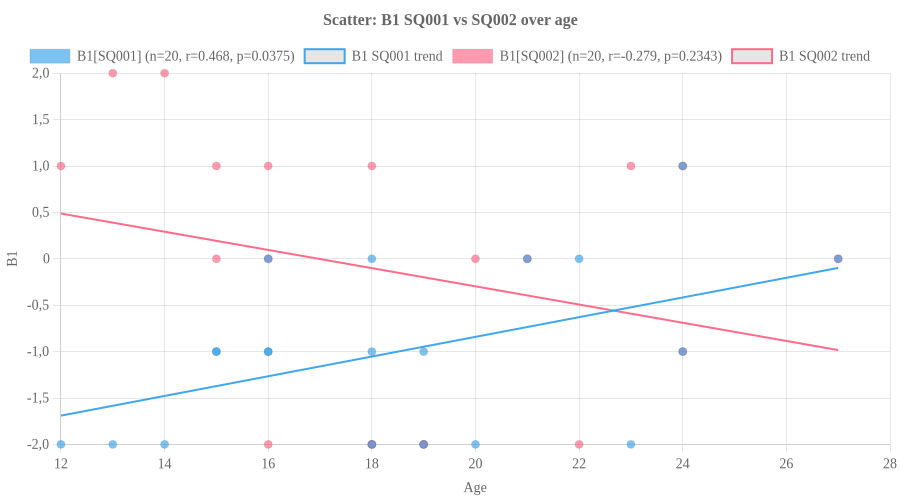
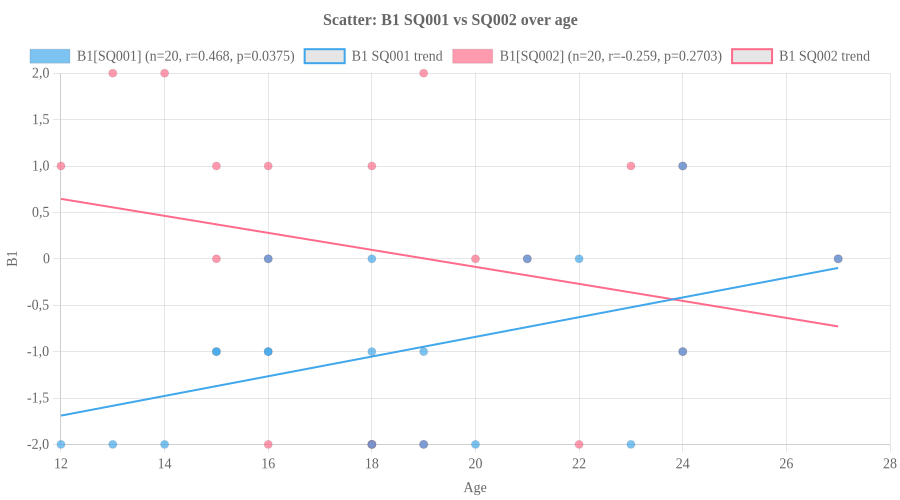
fix calculation issues

diff --git a/src/tools/reliabilityMetrics.ts b/src/tools/reliabilityMetrics.ts
@@ -29,11 +29,123 @@ type CsvRow = Record<string, string>;
 const DIMENSIONS = ['wording', 'perspective', 'context', 'glamorization', 'harmAcknowledgement'] as const;
 type Dimension = (typeof DIMENSIONS)[number];
 
+// Wertebereiche der Dimensionen (für Dokumentation und Normalisierung)
+const DIMENSION_RANGES: Record<Dimension, { min: number; max: number }> = {
+  wording: { min: -2, max: 2 },
+  perspective: { min: -2, max: 2 },
+  context: { min: -2, max: 2 },
+  glamorization: { min: -2, max: 2 },
+  harmAcknowledgement: { min: -2, max: 0 }, // Nur negative Werte sinnvoll
+};
+
 function stddevSample(xs: number[]): number | null {
   if (xs.length < 2) return null;
   const v = varianceSample(xs);
   if (v === null) return null;
   return Math.sqrt(v);
+}
+
+/**
+ * Pearson correlation coefficient
+ */
+function pearsonCorrelation(xs: number[], ys: number[]): number | null {
+  if (xs.length !== ys.length || xs.length < 2) return null;
+  const n = xs.length;
+  const mx = mean(xs);
+  const my = mean(ys);
+  if (mx === null || my === null) return null;
+
+  let num = 0;
+  let dx2 = 0;
+  let dy2 = 0;
+  for (let i = 0; i < n; i++) {
+    const dx = xs[i] - mx;
+    const dy = ys[i] - my;
+    num += dx * dy;
+    dx2 += dx * dx;
+    dy2 += dy * dy;
+  }
+  const denom = Math.sqrt(dx2 * dy2);
+  if (denom === 0) return null;
+  return num / denom;
+}
+
+/**
+ * Z-standardize values within each column (item)
+ */
+function zStandardizeMatrix(matrix: number[][]): number[][] {
+  const n = matrix.length;
+  const k = matrix[0]?.length ?? 0;
+  if (n < 2 || k < 1) return matrix;
+
+  const result: number[][] = matrix.map(row => [...row]);
+
+  for (let j = 0; j < k; j++) {
+    const col: number[] = [];
+    for (let i = 0; i < n; i++) col.push(matrix[i][j]);
+    const m = mean(col);
+    const sd = stddevSample(col);
+    if (m === null || sd === null || sd === 0) continue;
+    for (let i = 0; i < n; i++) {
+      result[i][j] = (matrix[i][j] - m) / sd;
+    }
+  }
+  return result;
+}
+
+/**
+ * Standardized Cronbach's alpha
+ * Uses correlation matrix instead of covariance matrix.
+ * Under tau-equivalence, standardized alpha ≈ raw alpha.
+ */
+function cronbachAlphaStandardized(matrix: number[][]): { alpha: number | null; avgInterItemCorr: number | null; interItemCorrVariance: number | null; itemTotalCorrs: number[] } {
+  const n = matrix.length;
+  const k = matrix[0]?.length ?? 0;
+  const result = { alpha: null as number | null, avgInterItemCorr: null as number | null, interItemCorrVariance: null as number | null, itemTotalCorrs: [] as number[] };
+  
+  if (n < 2 || k < 2) return result;
+
+  // Extract columns (items)
+  const cols: number[][] = [];
+  for (let j = 0; j < k; j++) {
+    const col: number[] = [];
+    for (let i = 0; i < n; i++) col.push(matrix[i][j]);
+    cols.push(col);
+  }
+
+  // Compute inter-item correlation matrix (lower triangle)
+  const interItemCorrs: number[] = [];
+  for (let i = 0; i < k; i++) {
+    for (let j = i + 1; j < k; j++) {
+      const r = pearsonCorrelation(cols[i], cols[j]);
+      if (r !== null) interItemCorrs.push(r);
+    }
+  }
+
+  if (interItemCorrs.length === 0) return result;
+
+  // Average inter-item correlation
+  const avgR = mean(interItemCorrs);
+  result.avgInterItemCorr = avgR;
+
+  // Variance of inter-item correlations (tau-equivalence check)
+  result.interItemCorrVariance = varianceSample(interItemCorrs);
+
+  // Standardized alpha formula: k * avgR / (1 + (k-1) * avgR)
+  if (avgR !== null) {
+    result.alpha = (k * avgR) / (1 + (k - 1) * avgR);
+  }
+
+  // Item-total correlations (corrected: correlate item with sum of other items)
+  const totals = matrix.map(row => row.reduce((a, b) => a + b, 0));
+  for (let j = 0; j < k; j++) {
+    // Corrected item-total: total minus this item
+    const correctedTotals = matrix.map((row, i) => totals[i] - row[j]);
+    const r = pearsonCorrelation(cols[j], correctedTotals);
+    result.itemTotalCorrs.push(r ?? 0);
+  }
+
+  return result;
 }
 
 function printHelp() {
@@ -54,8 +166,13 @@ Diagnostics:
   --topDisagreements <N>         How many disagreement units to print (default: 10)
 
 What it computes:
-  - Cronbach's alpha: internal consistency across the 5 rating dimensions.
+  - Cronbach's alpha (raw): internal consistency across the 5 rating dimensions.
     Units are aggregated as the mean per unit (across raters), then alpha is computed across dimensions.
+  - Cronbach's alpha (standardized): uses correlation matrix; equals raw alpha under tau-equivalence.
+  - Tau-Äquivalenz Diagnostik:
+      * Differenz raw vs standardized alpha (>0.05 deutet auf Verletzung)
+      * Varianz der Inter-Item-Korrelationen (sollte niedrig sein)
+      * Item-Total-Korrelationen (sollten ähnlich sein)
   - Krippendorff's alpha (interval distance): inter-rater reliability per dimension.
 
 Assumptions about the CSV:
@@ -396,6 +513,7 @@ async function main() {
   }
 
   const alphaCronbach = cronbachAlpha(matrix);
+  const tauEquiv = cronbachAlphaStandardized(matrix);
 
   // Output
   console.log('=== Reliability metrics ===');
@@ -404,8 +522,46 @@ async function main() {
   console.log(`Rater key for Krippendorff: ${raterKey} (ratingId|model)`);
   console.log('');
 
+  console.log('Hinweis zu Wertebereichen:');
+  DIMENSIONS.forEach(d => {
+    const range = DIMENSION_RANGES[d];
+    console.log(`  ${d}: [${range.min}, ${range.max}]`);
+  });
+  console.log('  → harmAcknowledgement hat kleineren Wertebereich (nur -2 bis 0)');
+  console.log('');
+
   console.log('Cronbach\'s alpha (across dimensions; unit means across raters):');
-  console.log(`  units_used=${matrix.length} | alpha=${alphaCronbach === null ? 'n/a' : alphaCronbach.toFixed(4)}`);
+  console.log(`  units_used=${matrix.length}`);
+  console.log(`  alpha (raw)=${alphaCronbach === null ? 'n/a' : alphaCronbach.toFixed(4)}`);
+  console.log(`  alpha (standardized)=${tauEquiv.alpha === null ? 'n/a' : tauEquiv.alpha.toFixed(4)}`);
+  console.log('  (Standardized alpha nutzt Korrelationsmatrix statt Kovarianzmatrix)');
+  console.log('');
+
+  console.log('Tau-Äquivalenz Diagnostik (Original-Skalen):');
+  console.log(`  alpha (standardized)=${tauEquiv.alpha === null ? 'n/a' : tauEquiv.alpha.toFixed(4)}`);
+  const alphaDiff = (alphaCronbach !== null && tauEquiv.alpha !== null) ? Math.abs(alphaCronbach - tauEquiv.alpha) : null;
+  console.log(`  Differenz (raw - standardized)=${alphaDiff === null ? 'n/a' : alphaDiff.toFixed(4)} ${alphaDiff !== null && alphaDiff > 0.05 ? '⚠ (>0.05 deutet auf Verletzung der Tau-Äquivalenz)' : ''}`);
+  console.log(`  Durchschn. Inter-Item-Korrelation=${tauEquiv.avgInterItemCorr === null ? 'n/a' : tauEquiv.avgInterItemCorr.toFixed(4)}`);
+  console.log(`  Varianz der Inter-Item-Korrelationen=${tauEquiv.interItemCorrVariance === null ? 'n/a' : tauEquiv.interItemCorrVariance.toFixed(4)}`);
+  console.log('  Korrigierte Item-Total-Korrelationen:');
+  DIMENSIONS.forEach((d, i) => {
+    const r = tauEquiv.itemTotalCorrs[i];
+    const range = DIMENSION_RANGES[d];
+    const rangeNote = (range.max - range.min) !== 4 ? ' (Wertebereich: ' + range.min + ' bis ' + range.max + ')' : '';
+    console.log(`    ${d}: ${r === undefined || r === null ? 'n/a' : r.toFixed(4)}${rangeNote}`);
+  });
+  console.log('');
+
+  console.log('Interpretation Tau-Äquivalenz:');
+  console.log('  Tau-Äquivalenz erfordert gleiche "true score"-Varianzen über Items.');
+  console.log('  Prüfung: Differenz raw vs. standardized alpha.');
+  if (alphaDiff !== null && alphaDiff <= 0.05) {
+    console.log(`  → Differenz ${alphaDiff.toFixed(4)} ≤ 0.05: Tau-Äquivalenz kann angenommen werden.`);
+  } else if (alphaDiff !== null) {
+    console.log(`  → Differenz ${alphaDiff.toFixed(4)} > 0.05: Hinweis auf Verletzung der Tau-Äquivalenz.`);
+  }
+  console.log('  Bei mehrdimensionalen Konstrukten (verschiedene Facetten) ist');
+  console.log('  Varianz in Inter-Item-Korrelationen erwartbar und kein Defizit.');
   console.log('');
 
   console.log('Krippendorff\'s alpha (interval; per dimension):');

diff --git a/dokumente/findings.md b/dokumente/findings.md
@@ -1,5 +1,3 @@
-[18:31:45.253] [32mINFO[39m (448755): [36mConnecting to InfluxDB at http://localhost:8181, database: suchtpraev[39m
-[18:31:45.362] [32mINFO[39m (448755): [36mConnected to Postgres at [39m
 
 ==============================
  UniSuchtprävention — Findings
@@ -27,14 +25,14 @@ Unique songs list:
   
 
 ## OHS correlation (artists listened vs questionnaire)
-  Gesamt: n=19 | r=-0.596 | r²=0.355 | t(17)=-3.057 | p=0.0071 | 95% CI [-0.826, -0.194] | meanX=0.459 | meanY=17.526 | medianX=0.422 | medianY=19.000
+  Gesamt: n=19 | r=-0.594 | r²=0.352 | t(17)=-3.042 | p=0.0074 | 95% CI [-0.825, -0.191] | meanX=0.459 | meanY=17.421 | medianX=0.422 | medianY=19.000
   m: n=8 | r=-0.529 | r²=0.280 | t(6)=-1.528 | p=0.1774 | 95% CI [-0.899, 0.280] | meanX=0.334 | meanY=16.250 | medianX=0.315 | medianY=16.500
-  w: n=9 | r=-0.786 | r²=0.618 | t(7)=-3.365 | p=0.0120 | 95% CI [-0.953, -0.255] | meanX=0.641 | meanY=17.778 | medianX=0.806 | medianY=16.000
+  w: n=9 | r=-0.758 | r²=0.574 | t(7)=-3.073 | p=0.0180 | 95% CI [-0.946, -0.189] | meanX=0.641 | meanY=17.556 | medianX=0.806 | medianY=16.000
   Ausgeschlossene Datensätze (OHS-Korrelation):
     idx=16 | reason=no artists parsed | gender=w | music={"genres":["HipHop","Techno","Melodic Rock","Indie"],"artists":[],"songs":[]}
 
 ## OHS (Fragebogen) vs Age
-  n=20 | r=+0.553 | r²=0.306 | t(18)=2.817 | p=0.0114 | 95% CI [0.147, 0.800] | mean(OHS)=18.350 | median(OHS)=19.000
+  n=20 | r=+0.523 | r²=0.273 | t(18)=2.601 | p=0.0181 | 95% CI [0.104, 0.784] | mean(OHS)=18.250 | median(OHS)=19.000
 
 ## OHS (gehört, Artist-Avg) vs Age
   n=19 | r=-0.164 | r²=0.027 | t(17)=-0.685 | p=0.5028 | 95% CI [-0.575, 0.314] | mean(OHS)=0.459 | median(OHS)=0.422
@@ -55,21 +53,21 @@ Correlations with age (all items, sorted by |r|):
   8. B4[SQ001] | n=20 | r_age=+0.330 | p=0.1552 | 95% CI [-0.132, 0.674]
   9. A1[AStim] | n=20 | r_age=-0.313 | p=0.1794 | 95% CI [-0.663, 0.151]
   10. A1[AAna] | n=20 | r_age=-0.306 | p=0.1897 | 95% CI [-0.659, 0.158]
-  11. B1[SQ002] | n=20 | r_age=-0.279 | p=0.2343 | 95% CI [-0.642, 0.187]
-  12. B4[SQ002] | n=20 | r_age=-0.276 | p=0.2391 | 95% CI [-0.640, 0.190]
-  13. B5[SQ001] | n=20 | r_age=+0.275 | p=0.2407 | 95% CI [-0.191, 0.640]
+  11. B4[SQ002] | n=20 | r_age=-0.276 | p=0.2391 | 95% CI [-0.640, 0.190]
+  12. B5[SQ001] | n=20 | r_age=+0.275 | p=0.2407 | 95% CI [-0.191, 0.640]
+  13. B1[SQ002] | n=20 | r_age=-0.259 | p=0.2703 | 95% CI [-0.629, 0.207]
   14. B2[SQ002] | n=20 | r_age=-0.252 | p=0.2844 | 95% CI [-0.625, 0.215]
   15. R1[RSti] | n=20 | r_age=-0.132 | p=0.5797 | 95% CI [-0.543, 0.330]
   16. B5[SQ002] | n=20 | r_age=-0.090 | p=0.7048 | 95% CI [-0.512, 0.367]
   17. A1[AAlk] | n=20 | r_age=+0.079 | p=0.7420 | 95% CI [-0.377, 0.504]
-  18. R1[RCan] | n=20 | r_age=-0.021 | p=0.9288 | 95% CI [-0.460, 0.425]
+  18. R1[RCan] | n=20 | r_age=+0.034 | p=0.8872 | 95% CI [-0.415, 0.469]
 
 Gender effects (eta², all items, sorted desc):
-  1. B1[SQ002] | n=20 | eta²_gender=0.202
-  2. A1[AAlk] | n=20 | eta²_gender=0.192
+  1. A1[AAlk] | n=20 | eta²_gender=0.192
+  2. B1[SQ002] | n=20 | eta²_gender=0.095
   3. B1[SQ001] | n=20 | eta²_gender=0.090
-  4. R1[RCan] | n=20 | eta²_gender=0.083
-  5. A1[AStim] | n=20 | eta²_gender=0.056
+  4. A1[AStim] | n=20 | eta²_gender=0.056
+  5. R1[RCan] | n=20 | eta²_gender=0.047
   6. B4[SQ002] | n=20 | eta²_gender=0.040
   7. R1[RSti] | n=20 | eta²_gender=0.038
   8. A1[AAna] | n=20 | eta²_gender=0.034
@@ -96,8 +94,7 @@ Top correlations with age:
   6. B1[SQ001] | n=20 | r_age=+0.468 | p=0.0375 | 95% CI [0.032, 0.754]
 
 Top effects by gender (eta²):
-  1. B1[SQ002] | n=20 | eta²_gender=0.202
-  2. A1[AAlk] | n=20 | eta²_gender=0.192
+  1. A1[AAlk] | n=20 | eta²_gender=0.192
 
 Strongest age correlations within gender (top 3 each):
   m:
@@ -107,9 +104,3 @@ Strongest age correlations within gender (top 3 each):
   w:
     1. R1[RAlk] | n=10 | r_age=+0.713 | p=0.0208 | 95% CI [0.150, 0.926]
     2. B1[SQ001] | n=10 | r_age=+0.646 | p=0.0436 | 95% CI [0.028, 0.907]
-
-## Plots
-PNG plots are written to: src/tools/plots
-
-=== Plots ===
-Writing plots to: /home/wolff/UniSuchtpraevention/plots
